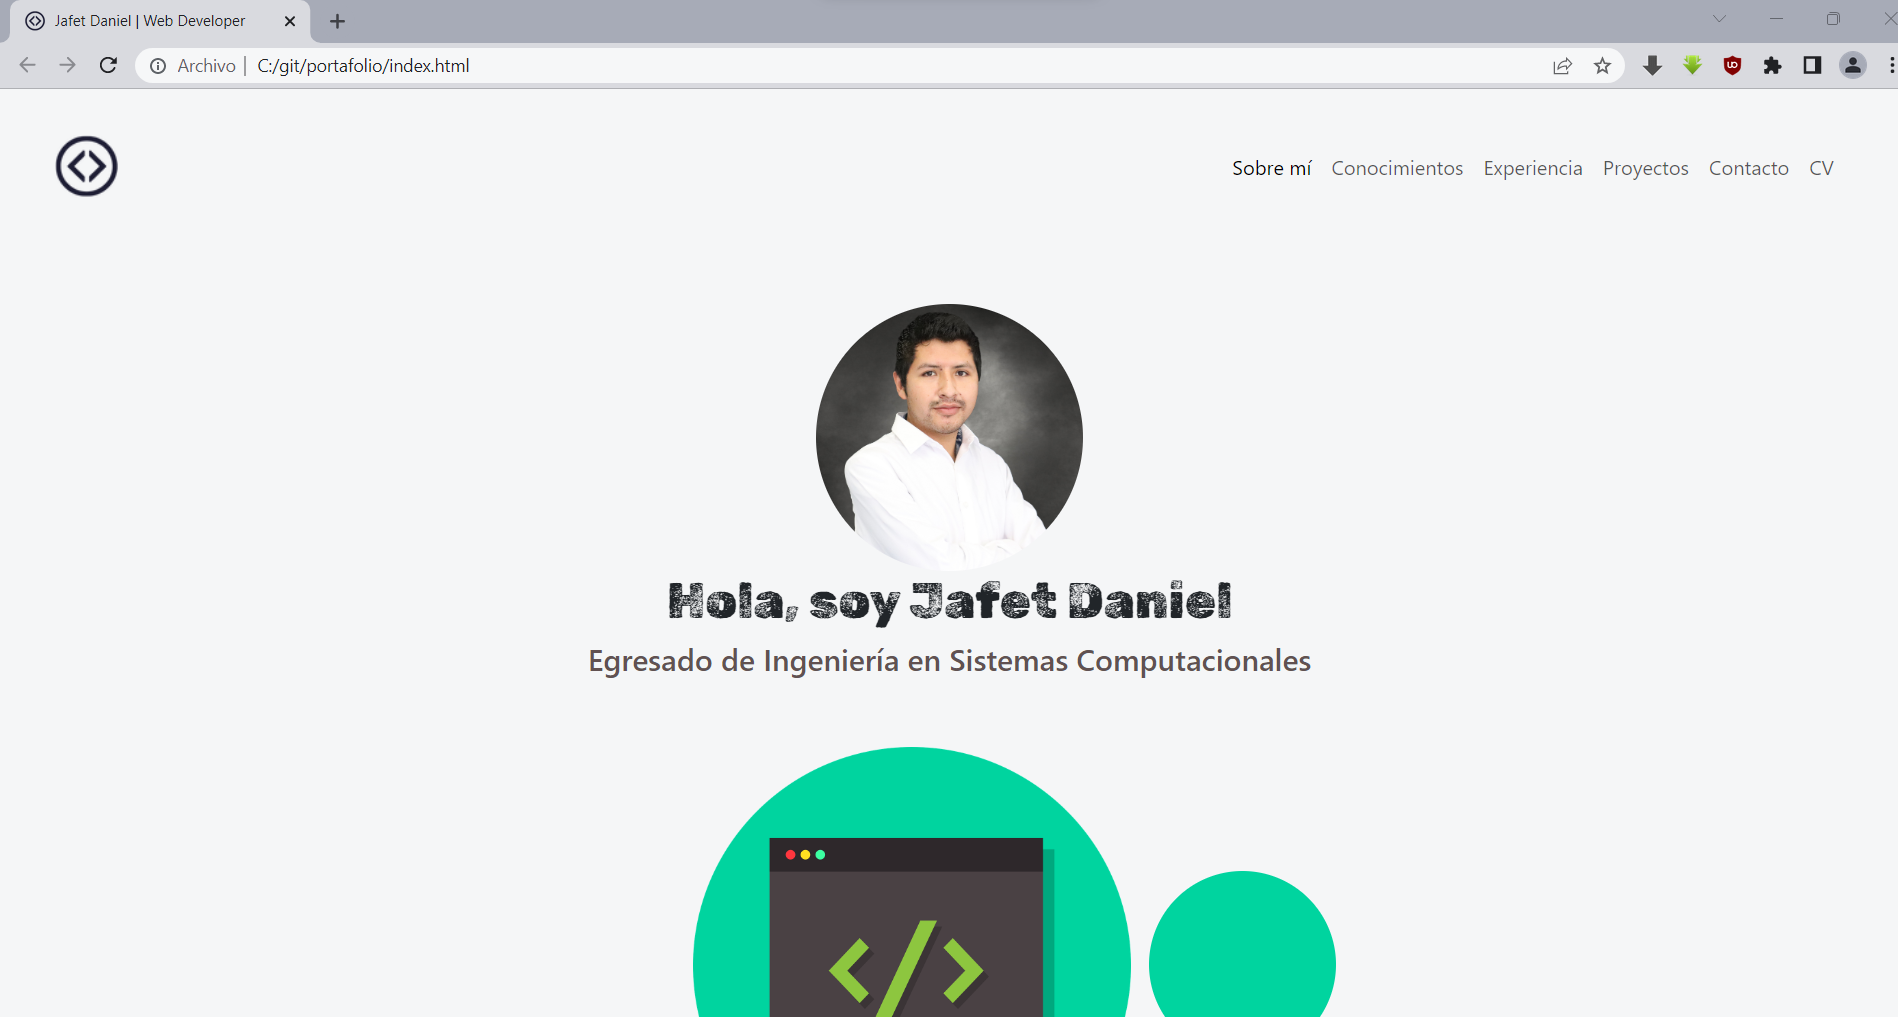
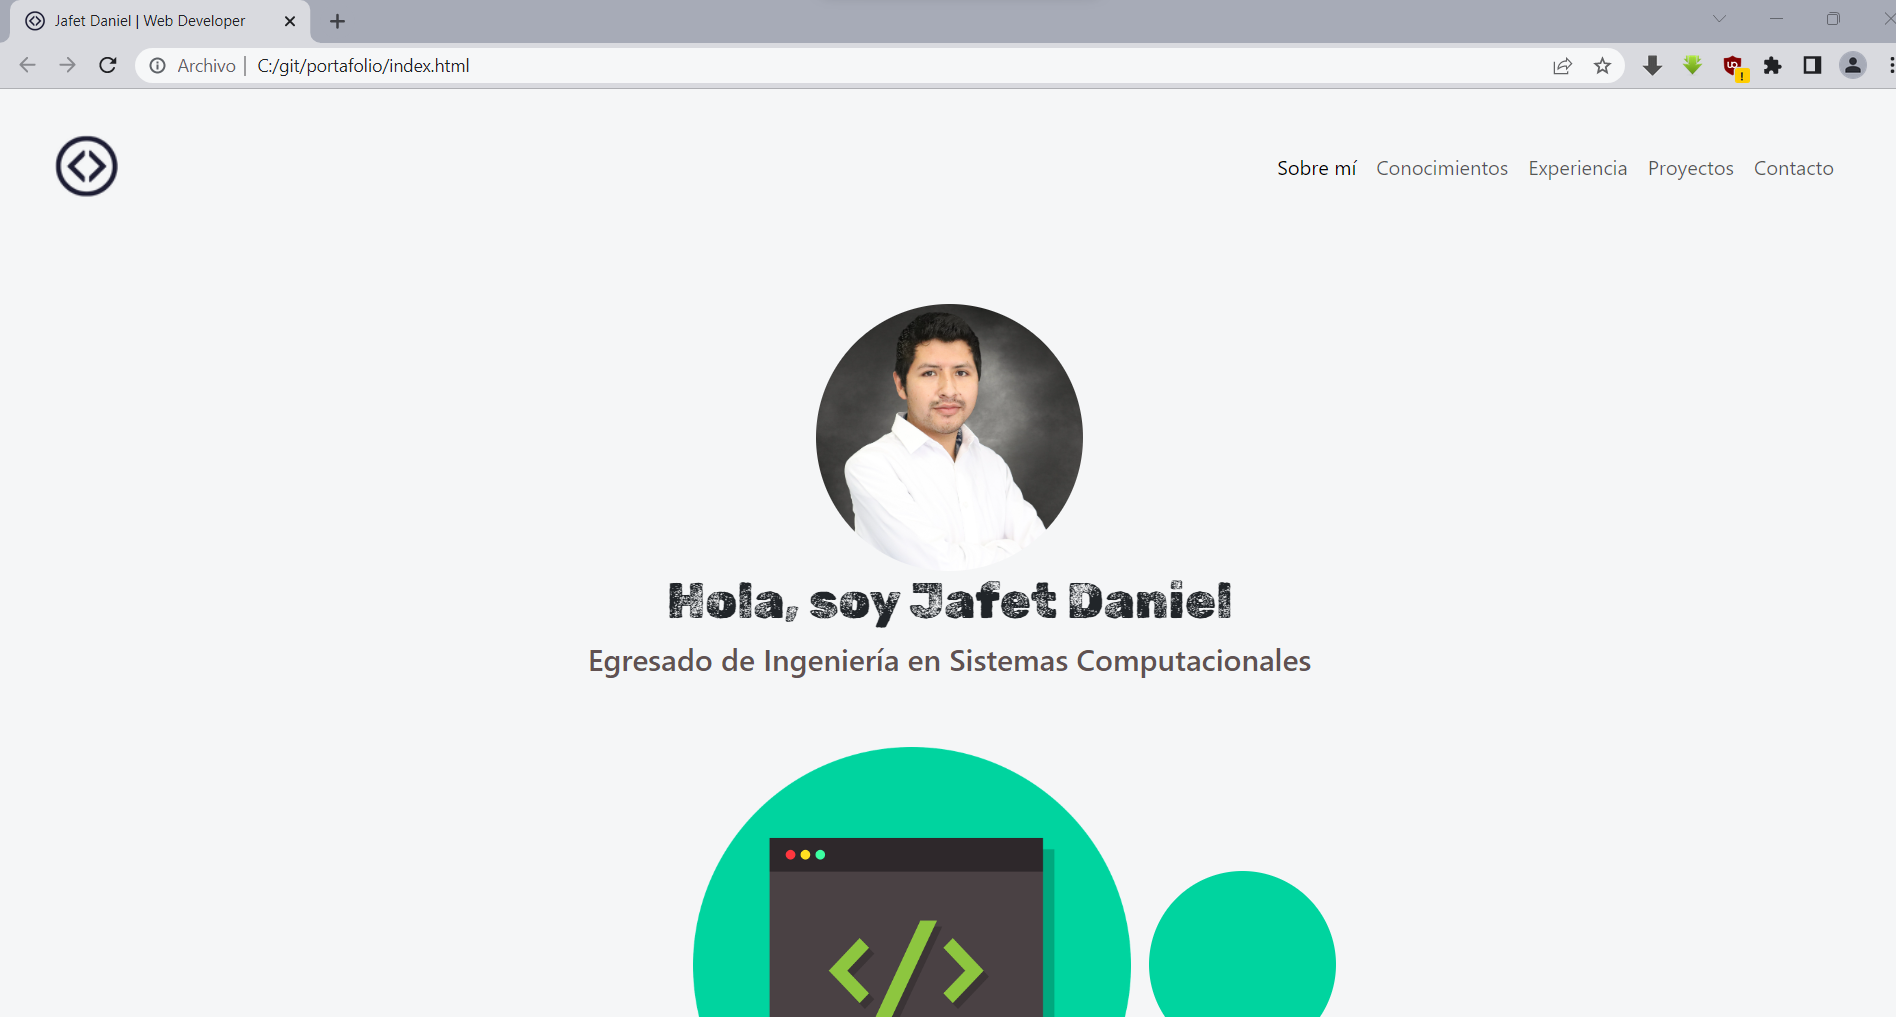
readme
readme

diff --git a/index.html b/index.html
@@ -54,9 +54,6 @@
                     <li class="nav-item">
                         <a class="nav-link" href="#contacto">Contacto</a>
                     </li>
-                    <li class="nav-item">
-                        <a class="nav-link" target="_blank" href="docs/CV3-FonsecaGarciaJafetDaniel.pdf">CV</a>
-                    </li>
                 </ul>
             </div>
         </div>
